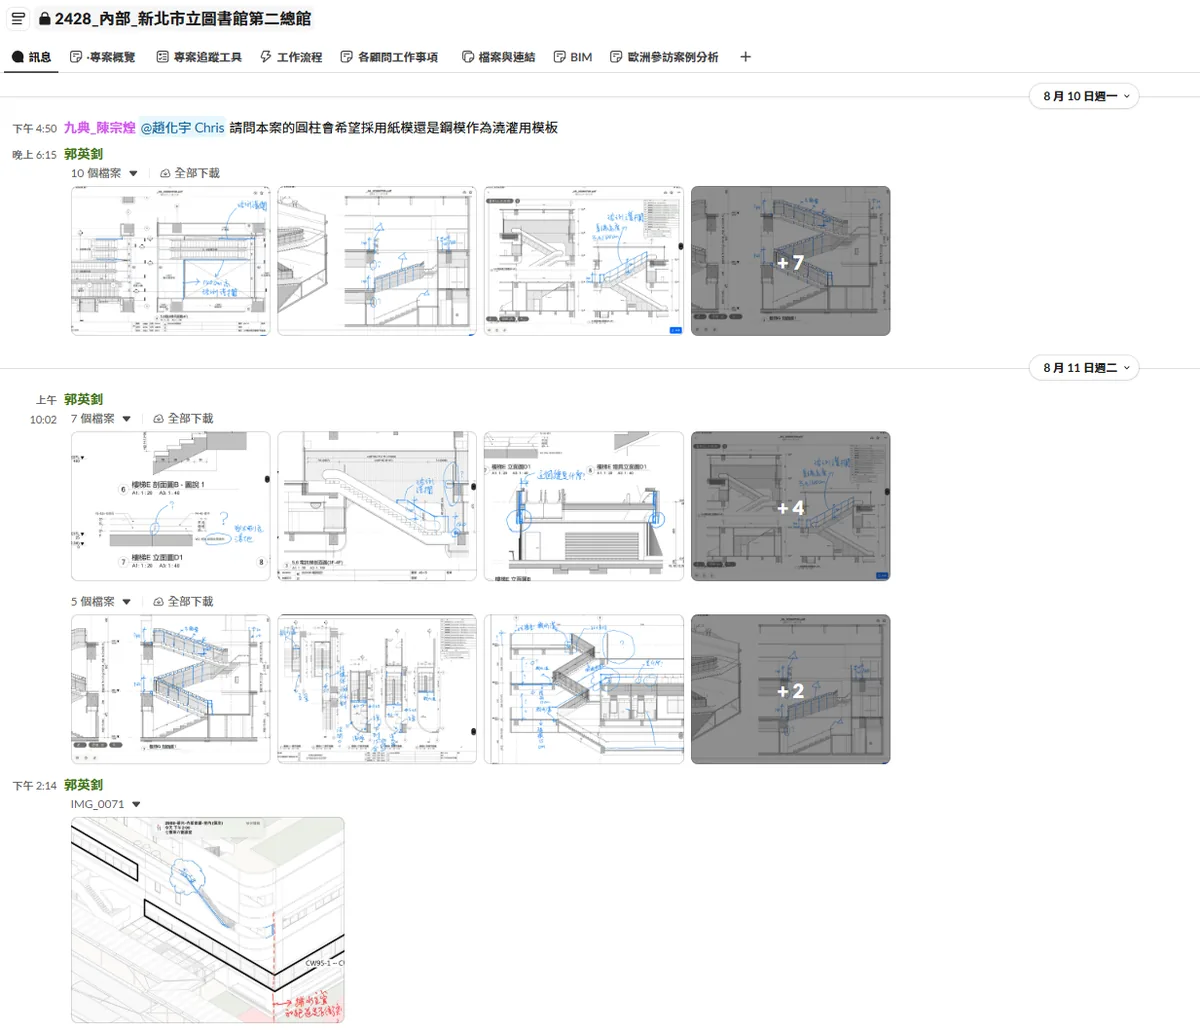
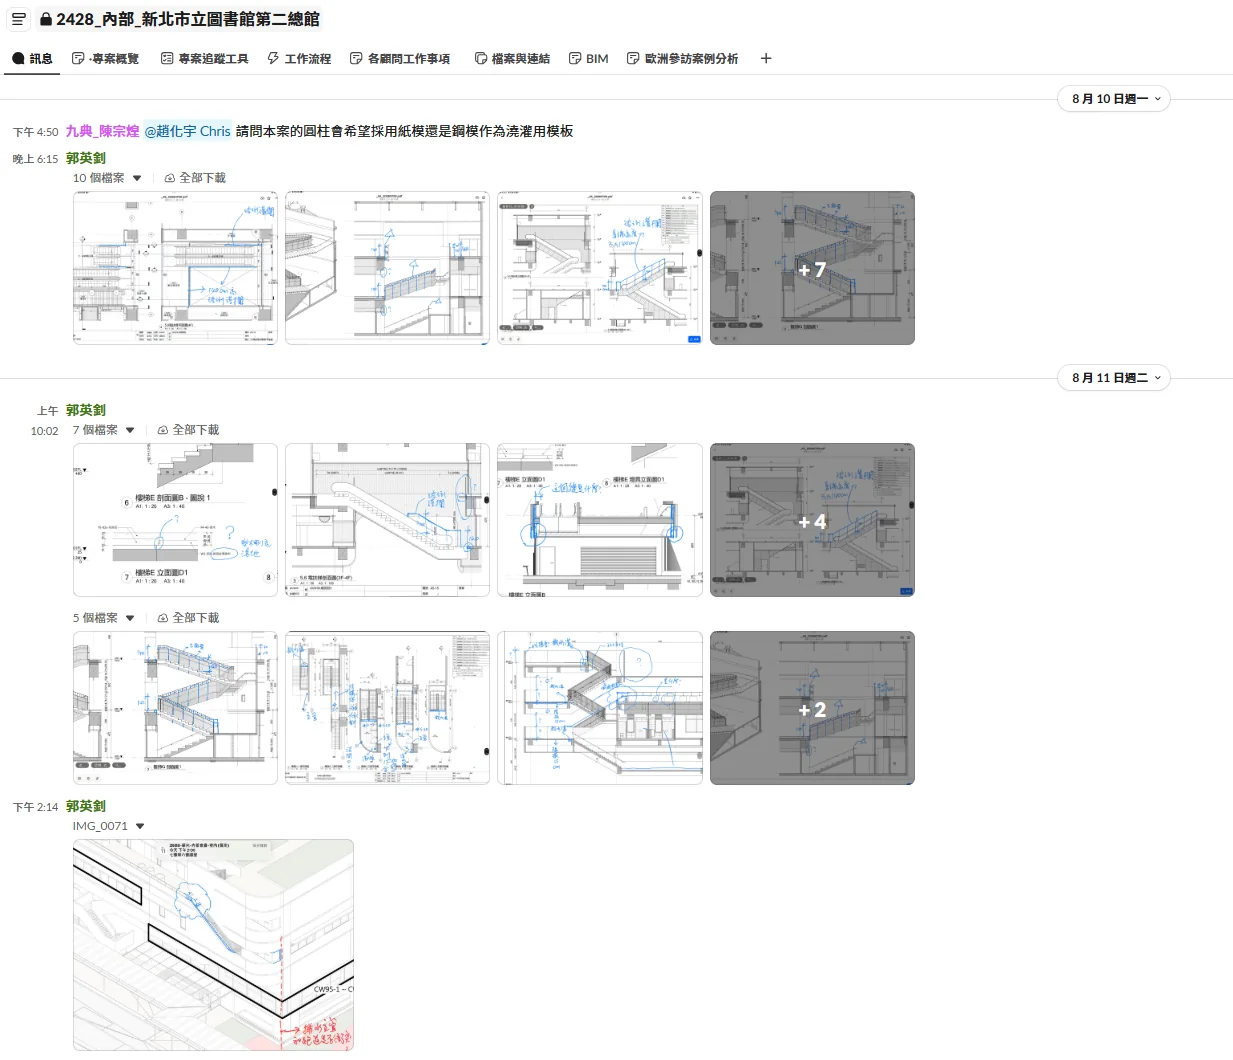
放大改為相對倍率，說明圖改用原始解析度
原本放大是切換為圖片原尺寸，但來源寬度小於視窗時兩種狀態渲染結果
相同，點了不會變大。改為相對於符合視窗時的寬度依 1、2、4 倍循環，
來源解析度較低時仍會實際放大。

兩張說明圖含標註文字，原先縮至 1200px 已損失細節，改用原始解析度
輸出（2536x1378、1233x1060）。

diff --git a/index.html b/index.html
@@ -74,7 +74,7 @@ button[aria-pressed="true"]{background:var(--ink);border-color:var(--ink);color:
   display:flex;flex-direction:column;align-items:center;justify-content:center;gap:10px}
 .lb[hidden]{display:none!important}
 .lb img{max-width:96vw;max-height:86vh;cursor:zoom-in;background:var(--panel2)}
-.lb.zoom img{max-width:none;max-height:none;cursor:zoom-out}
+.lb.zoom img{max-width:none;max-height:none}
 .lb figcaption{color:#efefef;font-size:13px;text-align:center}
 .lb .tip{color:#9a9a9a;font-size:12px}
 
@@ -545,13 +545,44 @@ for (const btn of document.querySelectorAll('[data-ver]')) {
 const lb = document.getElementById('lb');
 const lbImg = document.getElementById('lbImg');
 const lbCap = document.getElementById('lbCap');
+const lbTip = document.querySelector('.lb .tip');
 
-function closeLb() { lb.hidden = true; lb.classList.remove('zoom'); lbImg.removeAttribute('src'); }
+// 放大倍率相對於「符合視窗」時的寬度，來源解析度較低時仍會實際放大
+const ZOOM = [1, 2, 4];
+let zoomStep = 0;
+let fitWidth = 0;
+
+function applyZoom() {
+  if (zoomStep === 0) {
+    lb.classList.remove('zoom');
+    lbImg.style.width = '';
+    lbImg.style.cursor = 'zoom-in';
+  } else {
+    lb.classList.add('zoom');
+    lbImg.style.width = Math.round(fitWidth * ZOOM[zoomStep]) + 'px';
+    lbImg.style.cursor = zoomStep === ZOOM.length - 1 ? 'zoom-out' : 'zoom-in';
+  }
+  lbTip.textContent = zoomStep === 0
+    ? '點圖片放大，點四周或按 Esc 關閉'
+    : '目前 ' + ZOOM[zoomStep] + ' 倍，再點放大，最大後回到原狀';
+}
+
+function closeLb() {
+  lb.hidden = true;
+  zoomStep = 0;
+  lb.classList.remove('zoom');
+  lbImg.style.width = '';
+  lbImg.removeAttribute('src');
+}
 
 document.addEventListener('click', e => {
   if (!lb.hidden) {
-    if (e.target === lbImg) lb.classList.toggle('zoom');
-    else closeLb();
+    if (e.target === lbImg) {
+      zoomStep = (zoomStep + 1) % ZOOM.length;
+      applyZoom();
+    } else {
+      closeLb();
+    }
     return;
   }
   const img = e.target.closest('.gal img');
@@ -560,8 +591,15 @@ document.addEventListener('click', e => {
   lbImg.alt = img.alt;
   const cap = img.closest('figure') && img.closest('figure').querySelector('figcaption');
   lbCap.textContent = cap ? cap.textContent : '';
+  zoomStep = 0;
   lb.classList.remove('zoom');
+  lbImg.style.width = '';
   lb.hidden = false;
+  // 疊層顯示後才量得到符合視窗時的實際寬度
+  requestAnimationFrame(() => {
+    fitWidth = lbImg.getBoundingClientRect().width;
+    applyZoom();
+  });
 });
 
 addEventListener('keydown', e => { if (e.key === 'Escape' && !lb.hidden) closeLb(); });
